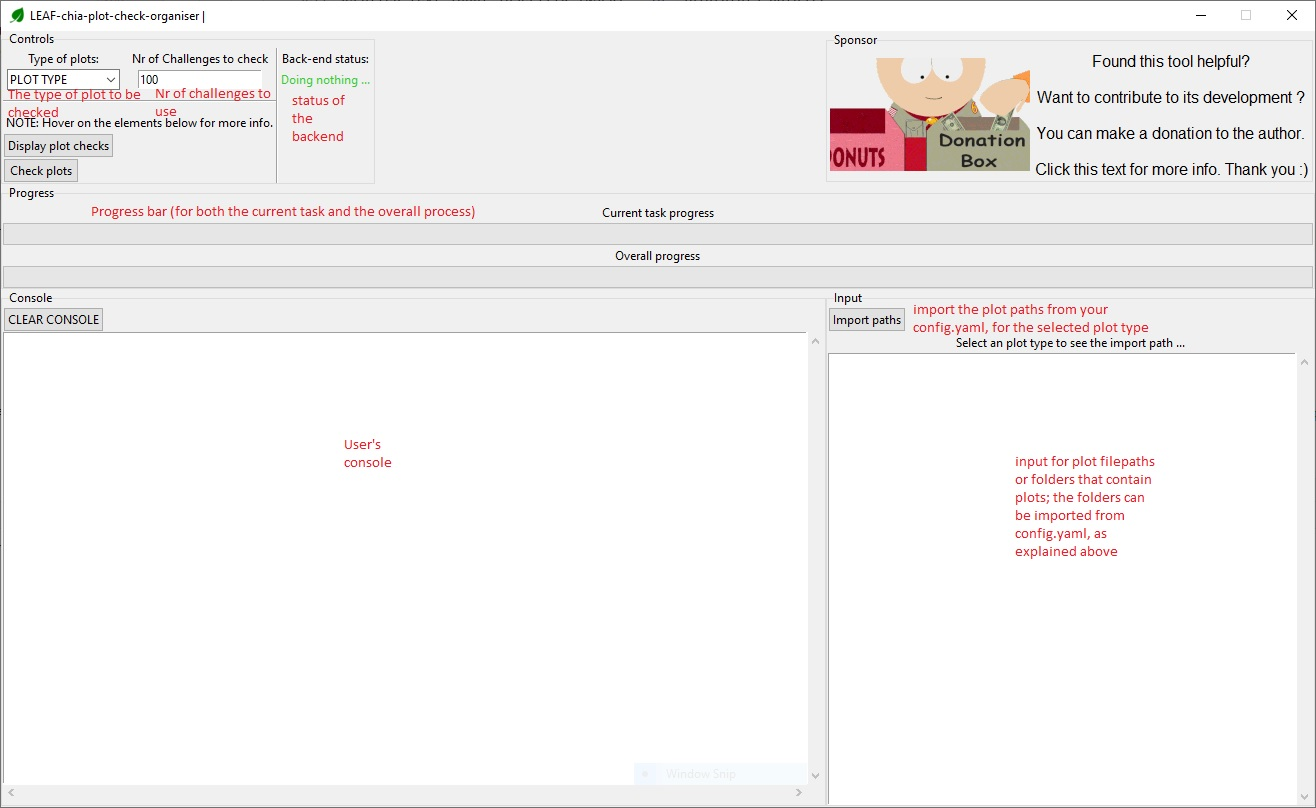
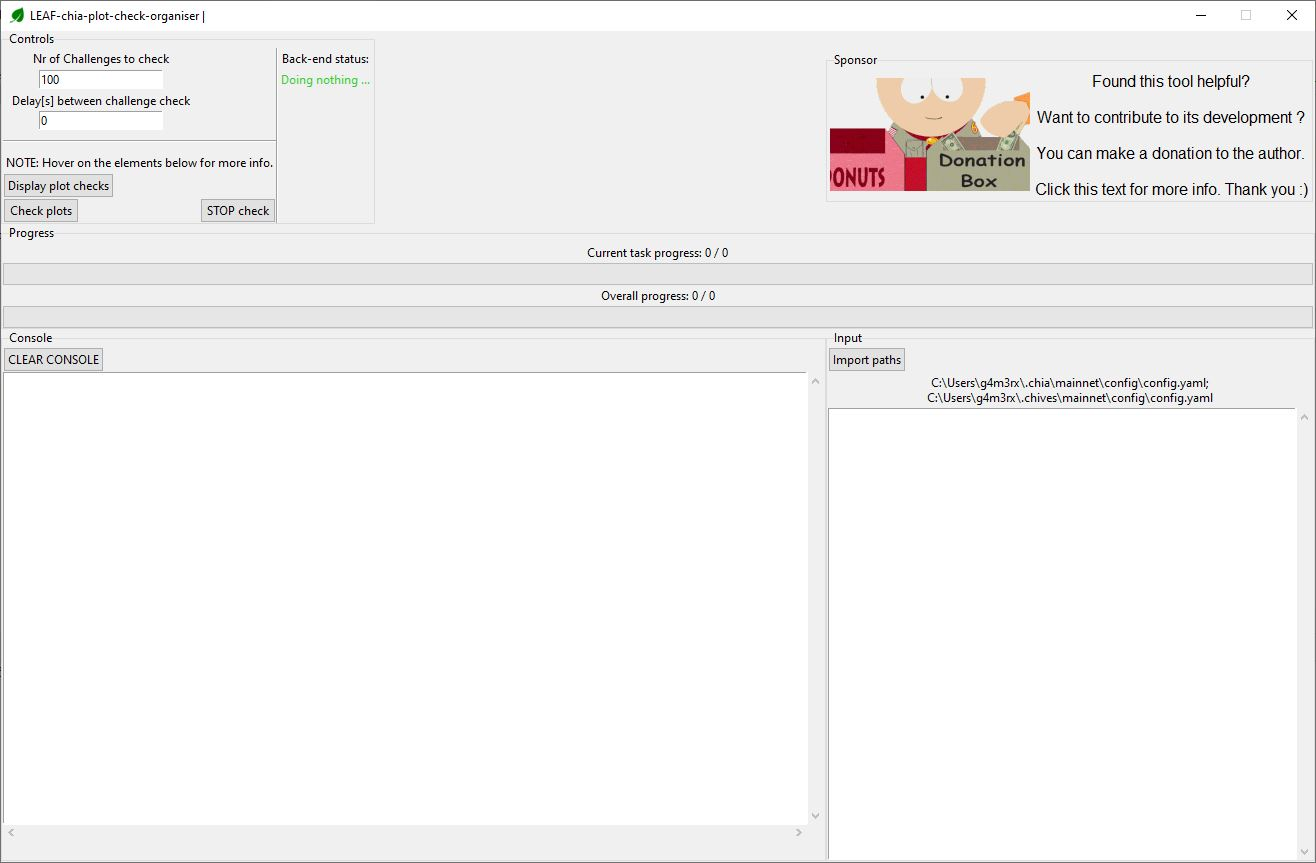
ReadMe updates

diff --git a/README.md b/README.md
@@ -6,13 +6,20 @@ Tool used to keep a history of plot checks made with chia or chia forks; it can 
 ![alt text](https://c.tenor.com/FDwYMy302gMAAAAM/tumbleweed-silence.gif?raw=true)
 
 # High level overview
-The tool will check the plots, using one of the pre-configured coins (XCH or XCC).
+The tool will check chia plots using the chiapos lib.
 
-On subsequent executions, only new plots (that are not present in LEAF_catalog.json) will be checked.
+The tool keeps a history of what was checked in the past on a plot and on a challenge level, meaning that it knows which plots and which challenges were already checked.
 
-The history is saved, by default, into a LEAF_catalog.json file, in the root folder of the tool's execution.
+On subsequent executions, only new plots and new challenges will be checked.
 
-It can display a table with all the plots, and the most important part, if the check is passed or failed, and the check's score (the total_proofs/nr_of_challenges ratio).
+The history is saved, by default, into an "output" folder, in the root folder of the tool's execution.
+
+It can display a table with all the plots, the challenges used to check that plot and the plot's score (the total_proofs/nr_of_challenges ratio).
+
+### NEW
+The plots check is a very I/O intensive operation !
+
+You can now put a delay between each challenge check; usefull when the HDD where the plots are located is also beeing farmed.
 
 # Feedback/ Contribution
 - Please post any issues you encountered or any feature requests in the issues tab.
@@ -22,7 +29,7 @@ It can display a table with all the plots, and the most important part, if the c
 
 ![alt text](https://raw.githubusercontent.com/ageorge95/LEAF-chia-plot-check-organiser/main/ReadMe_resources/overall.jpg?raw=true)
 
-NOTE: The output is present in the GUI's output, in the runtime_log.log and returned to the calling method, if used as a sub-module.
+NOTE: The output is present in the GUI's output, in the runtime_log.log and returned to the caller method, if used as a sub-module.
 
 # How to use
 
